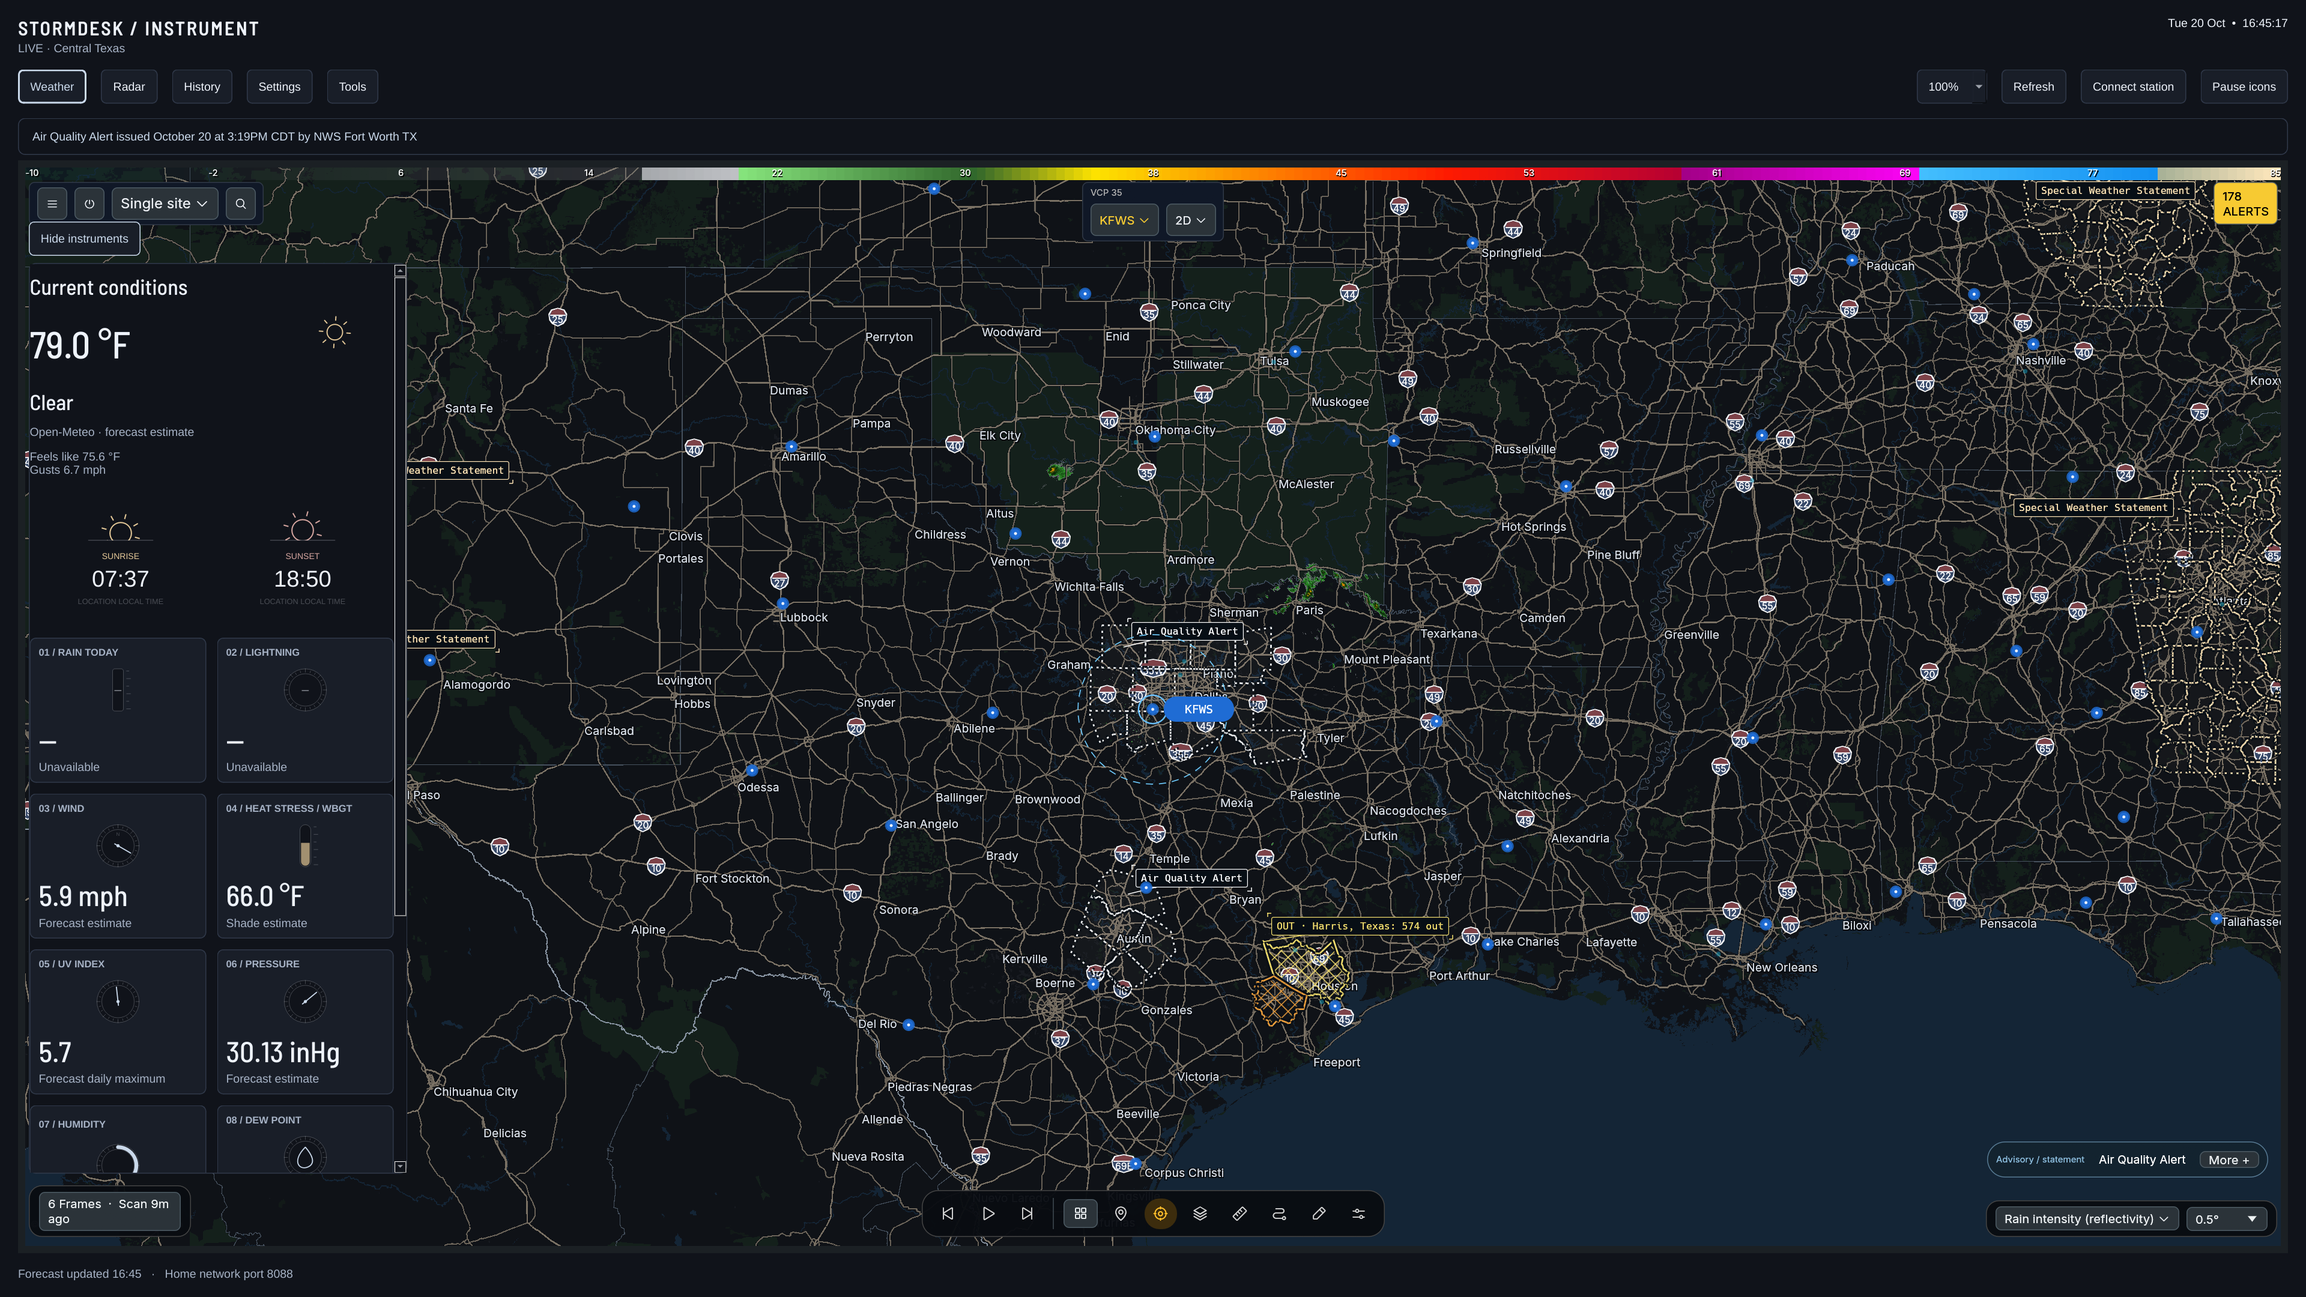
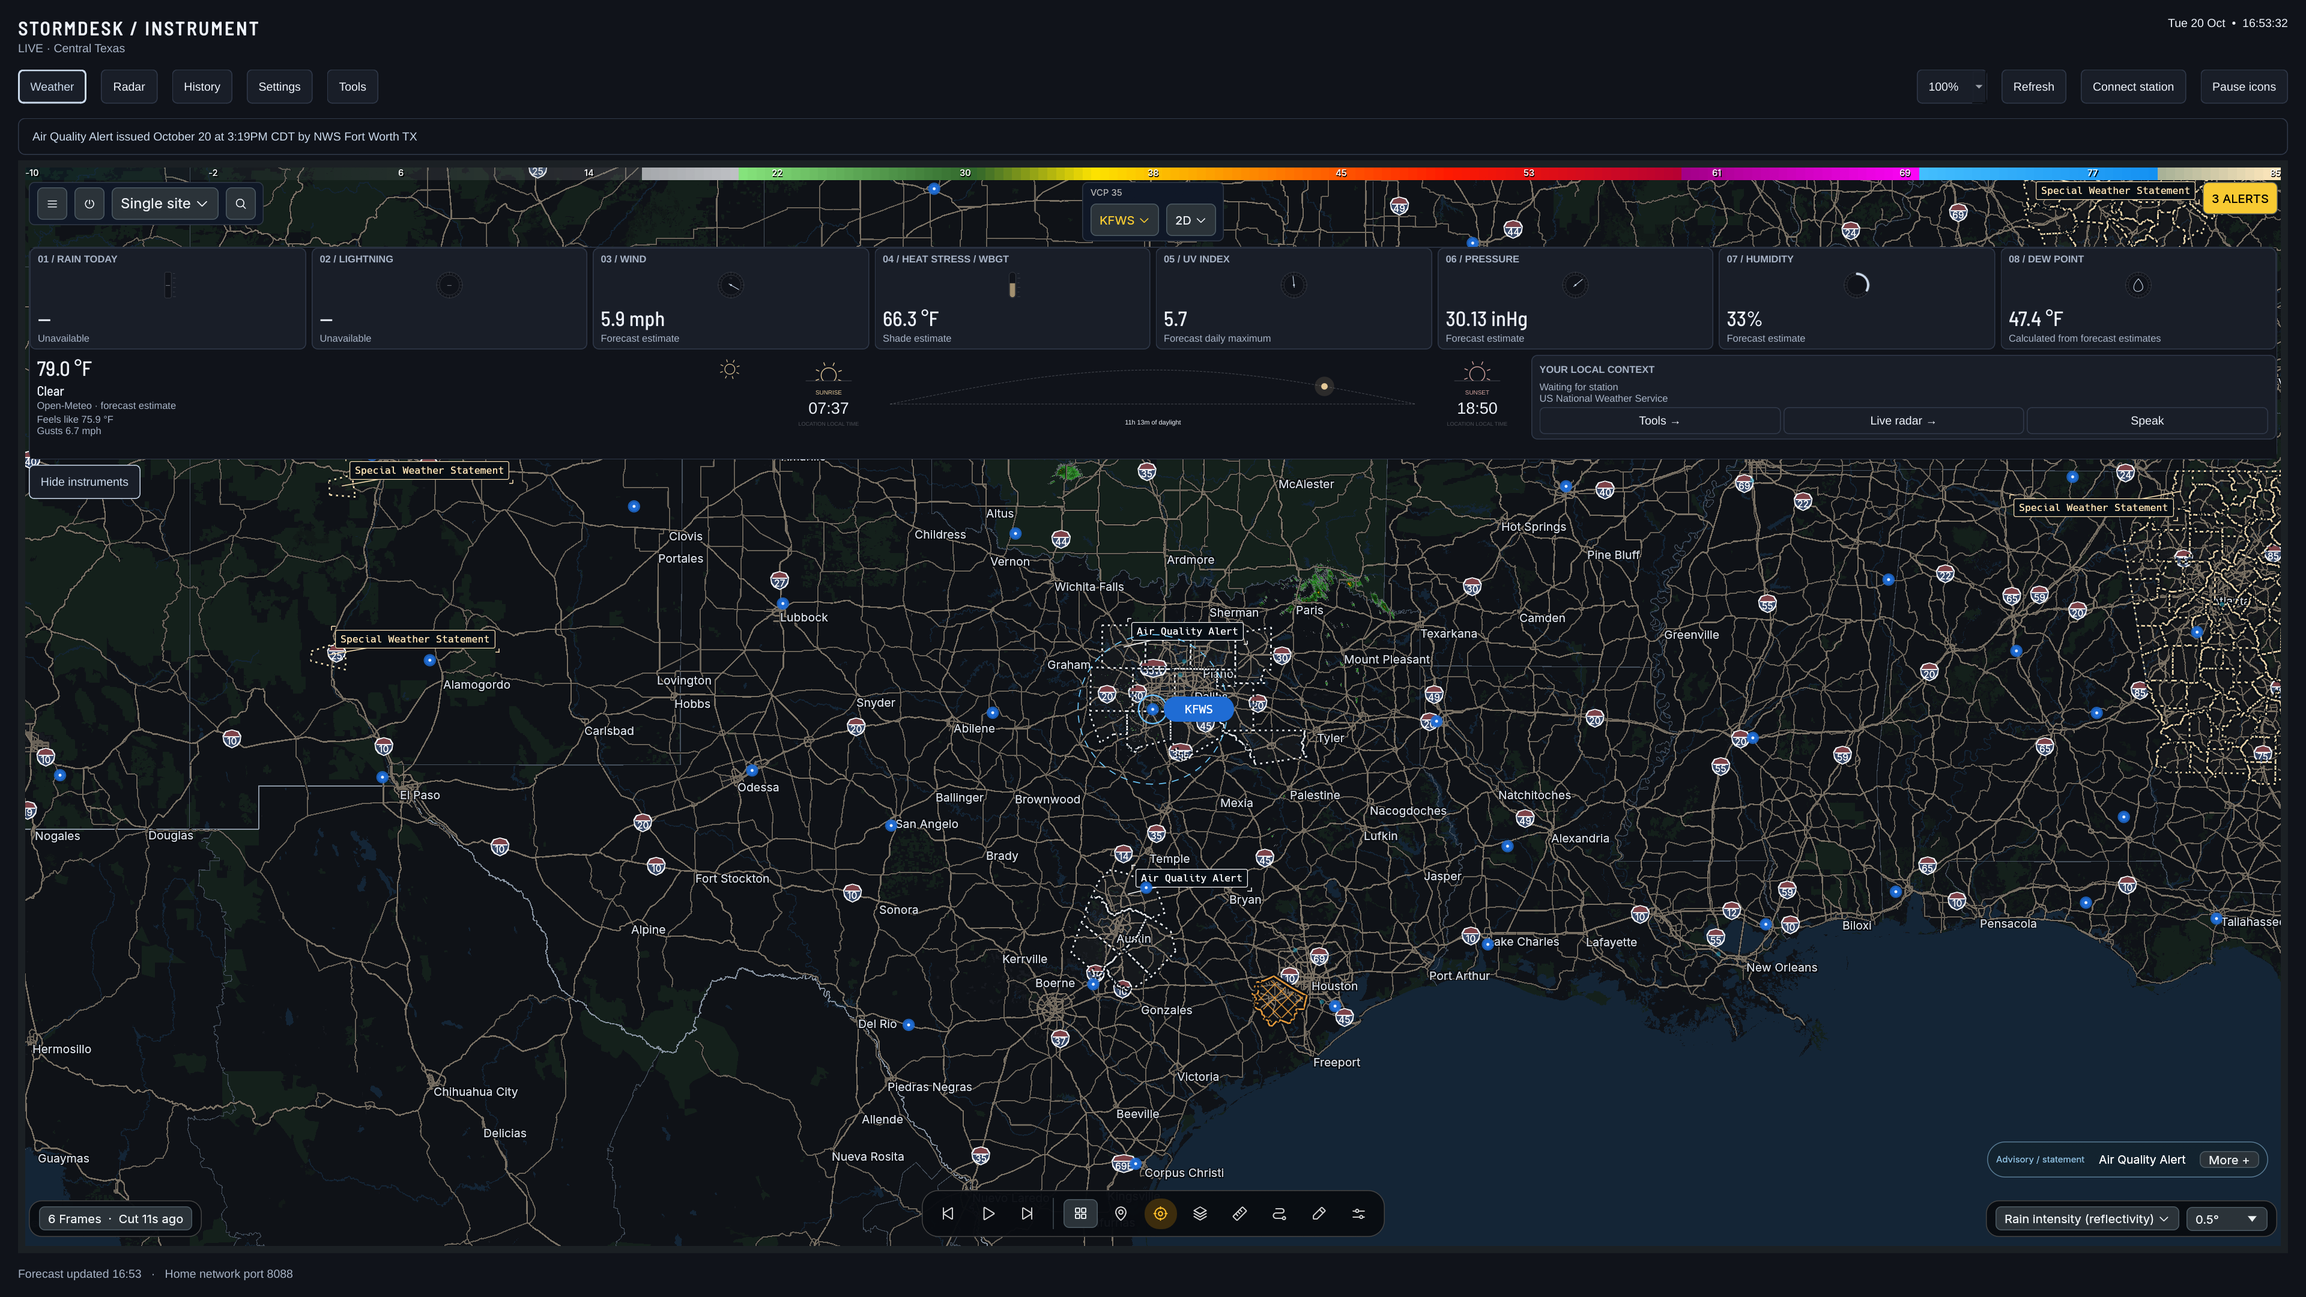
feat: compact native instruments across radar top

diff --git a/cpp/window.cpp b/cpp/window.cpp
@@ -324,7 +324,7 @@ QWidget *Window::makeWeather() {
   auto page = new QWidget;
   auto layout = new QVBoxLayout(page);
   layout->setContentsMargins(0, 0, 0, 0);
-  layout->setSpacing(16);
+  layout->setSpacing(6);
   alerts = label(
       "Choose a location in Settings to load weather and official warnings.",
       "notice");
@@ -340,7 +340,8 @@ QWidget *Window::makeWeather() {
     auto widget = card(
         QString::number(i + 1).rightJustified(2, '0') + " / " + names[i], &box);
     widget->setMinimumWidth(0);
-    box->setSpacing(4);
+    box->setSpacing(2);
+    box->setContentsMargins(8, 5, 8, 5);
     faces[i] = new InstrumentFace(i);
     faces[i]->setObjectName("instrumentFace" + QString::number(i));
     faces[i]->setAccessibleName(names[i] + " details");
@@ -419,15 +420,15 @@ QWidget *Window::makeWeather() {
   auto source = label({}, "muted");
   source->setObjectName("stationDetail");
   context->addWidget(source);
-  context->addStretch();
+  auto actions = new QHBoxLayout;
+  actions->setObjectName("contextActions");
+  context->addLayout(actions);
   auto link = new QPushButton("Tools →");
   connect(link, &QPushButton::clicked, this,
           [this] { pages->setCurrentIndex(4); });
-  context->addWidget(link);
-  auto hint = label("Weather readings are labeled by source. Missing sensor "
-                    "data remains unavailable.",
-                    "muted");
-  context->addWidget(hint);
+  actions->addWidget(link);
+  context->setContentsMargins(8, 5, 8, 5);
+  context->setSpacing(3);
   currentCard->setObjectName("instrumentHero");
   heroHeading = label("Current conditions", "subtitle");
   weatherGlyph = new WeatherGlyph;
@@ -446,15 +447,17 @@ QWidget *Window::makeWeather() {
   }
   currentLayout->removeWidget(radar);
   currentLayout->removeWidget(speak);
-  context->addWidget(radar);
-  context->addWidget(speak);
+  actions->addWidget(radar);
+  actions->addWidget(speak);
   heroLayout->setColumnStretch(0, 1);
   currentLayout->insertLayout(0, heroLayout);
-  currentLayout->setContentsMargins(0, 10, 0, 14);
-  layout->insertWidget(0, currentCard);
+  currentLayout->setContentsMargins(8, 0, 8, 0);
+  heroLayout->setSpacing(2);
   sunCycle = new SunCycle;
   sunCycle->setObjectName("sunCycle");
-  layout->insertWidget(1, sunCycle);
+  body->addWidget(currentCard, 0, 0);
+  body->addWidget(sunCycle, 0, 1);
+  body->addWidget(contextCard, 0, 2);
   auto liveRadar = new Radar(services, nullptr, true);
   liveRadar->setObjectName("dashboardRadar");
   dashboardRadarCard = liveRadar;
@@ -1202,9 +1205,9 @@ void Window::applyScale(double value) {
   font.setPixelSize(qRound(13 * scaleFactor));
   QApplication::setFont(font);
   for (auto face : faces)
-    face->setScale(scaleFactor * .72);
-  weatherGlyph->setScale(scaleFactor * .65);
-  sunCycle->setScale(scaleFactor * .85);
+    face->setScale(scaleFactor * .48);
+  weatherGlyph->setScale(scaleFactor * .42);
+  sunCycle->setScale(scaleFactor * .60);
   radarStage->setScale(scaleFactor);
   for (auto radar : findChildren<Radar *>())
     radar->setScale(scaleFactor);
@@ -1299,6 +1302,20 @@ void Window::applyTheme() {
       ";} QTabBar::tab:selected {color:" + accent +
       ";} QToolTip {color:" + foreground + ";background:" + panel +
       ";}"
+      "QScrollArea#instrumentShelf QLabel[kind=metric],"
+      "QScrollArea#instrumentShelf QLabel[kind=temperature] {font-size:" +
+      px(23) +
+      "px;}"
+      "QScrollArea#instrumentShelf QLabel[kind=subtitle] {font-size:" +
+      px(15) +
+      "px;}"
+      "QScrollArea#instrumentShelf QLabel[kind=muted],"
+      "QScrollArea#instrumentShelf QLabel[kind=eyebrow] {font-size:" +
+      px(11) +
+      "px;}"
+      "QScrollArea#instrumentShelf QPushButton {padding:" +
+      px(4) + "px " + px(8) +
+      "px;}"
       "QScrollArea#instrumentShelf {border:1px solid " +
       border +
       ";border-radius:8px;}"
@@ -1341,7 +1358,10 @@ void Window::arrange() {
     navigation->addWidget(setupButton, 0, 8);
     navigation->addWidget(motionButton, 0, 9);
   }
-  const int columns = available >= 360 ? 2 : 1;
+  const int columns = available >= 1200  ? 8
+                      : available >= 650 ? 4
+                      : available >= 360 ? 2
+                                         : 1;
   const auto dashboard =
       services.config.settings().value("nativeDashboard").toObject();
   const auto hidden = dashboard.value("hidden").toArray(),
@@ -1369,9 +1389,11 @@ void Window::arrange() {
       ++cell;
     }
   }
+  for (int col = 0; col < 8; ++col)
+    metrics->setColumnStretch(col, col < std::min(columns, cell) ? 1 : 0);
   double density = std::clamp(dashboard.value("density").toDouble(1), .6, 1.5);
-  metrics->setSpacing(qRound(12 * scaleFactor * density));
-  body->setSpacing(qRound(16 * scaleFactor * density));
+  metrics->setSpacing(qRound(6 * scaleFactor * density));
+  body->setSpacing(qRound(6 * scaleFactor * density));
   if (!currentCard || !contextCard || !dashboardRadarCard)
     return;
   auto detail = currentCard->findChild<QLabel *>("conditionsDetail");
@@ -1379,14 +1401,24 @@ void Window::arrange() {
        QList<QWidget *>{heroHeading, heroSource, detail, heroTemperature,
                         heroCondition, weatherGlyph})
     heroLayout->removeWidget(widget);
-  heroLayout->addWidget(heroHeading, 0, 0, 1, 2);
-  heroLayout->addWidget(heroTemperature, 1, 0);
-  heroLayout->addWidget(weatherGlyph, 1, 1);
-  heroLayout->addWidget(heroCondition, 2, 0, 1, 2);
-  heroLayout->addWidget(heroSource, 3, 0, 1, 2);
-  heroLayout->addWidget(detail, 4, 0, 1, 2);
-  body->addWidget(contextCard, 0, 0);
-  body->setColumnStretch(0, 1);
+  heroHeading->hide();
+  heroLayout->addWidget(heroTemperature, 0, 0);
+  heroLayout->addWidget(weatherGlyph, 0, 1, 2, 1);
+  heroLayout->addWidget(heroCondition, 1, 0);
+  heroLayout->addWidget(heroSource, 2, 0, 1, 2);
+  heroLayout->addWidget(detail, 3, 0, 1, 2);
+  for (auto widget :
+       {currentCard, static_cast<QWidget *>(sunCycle), contextCard})
+    body->removeWidget(widget);
+  contextCard->findChild<QHBoxLayout *>("contextActions")
+      ->setDirection(available < 650 ? QBoxLayout::TopToBottom
+                                     : QBoxLayout::LeftToRight);
+  const int contextColumns = available >= 1050 ? 3 : 1;
+  body->addWidget(currentCard, 0, 0);
+  body->addWidget(sunCycle, 1 / contextColumns, 1 % contextColumns);
+  body->addWidget(contextCard, 2 / contextColumns, 2 % contextColumns);
+  for (int col = 0; col < 3; ++col)
+    body->setColumnStretch(col, col < contextColumns ? 1 : 0);
   contextCard->setVisible(!hidden.contains("Your local context"));
   dashboardRadarCard->setVisible(!hidden.contains("Local radar"));
   currentCard->setVisible(!hidden.contains("Current conditions"));

diff --git a/cpp/radar.cpp b/cpp/radar.cpp
@@ -142,24 +142,24 @@ void RadarStage::resizeEvent(QResizeEvent *event) {
 void RadarStage::arrange() {
   radar->setGeometry(rect());
   const int margin = qRound(12 * scaleFactor);
-  const int panelWidth =
-      std::max(1, std::min(qRound(420 * scaleFactor), width() - 2 * margin));
+  const int panelWidth = std::max(1, width() - 2 * margin);
   if (!userToggled)
     toggle->setChecked(width() / scaleFactor >= 900);
   const int buttonHeight = toggle->sizeHint().height();
   const int top =
-      height() > 300 * scaleFactor ? qRound(68 * scaleFactor) : margin;
+      height() > 300 * scaleFactor ? qRound(96 * scaleFactor) : margin;
+  const int panelHeight =
+      std::max(0, std::min(qRound(236 * scaleFactor), height() / 3));
+  instruments->setGeometry(margin, top, panelWidth, panelHeight);
+  instruments->setVisible(toggle->isChecked() && panelHeight > 0);
   toggle->setText(toggle->isChecked() ? "Hide instruments"
                                       : "Show instruments");
-  toggle->setGeometry(margin, top,
+  const int buttonTop = instruments->isVisible()
+                            ? top + panelHeight + qRound(6 * scaleFactor)
+                            : top;
+  toggle->setGeometry(margin, buttonTop,
                       std::min(panelWidth, toggle->sizeHint().width()),
                       buttonHeight);
-  const int panelTop = top + buttonHeight + qRound(8 * scaleFactor);
-  const int bottom =
-      height() > 300 * scaleFactor ? qRound(88 * scaleFactor) : margin;
-  const int panelHeight = std::max(0, height() - panelTop - bottom);
-  instruments->setGeometry(margin, panelTop, panelWidth, panelHeight);
-  instruments->setVisible(toggle->isChecked() && panelHeight > 0);
   radar->lower();
   instruments->raise();
   toggle->raise();

diff --git a/cpp/ui_tests.cpp b/cpp/ui_tests.cpp
@@ -107,6 +107,8 @@ private slots:
     QVERIFY(stage && shelf && toggle);
     QCOMPARE(radar->geometry(), stage->rect());
     QVERIFY(shelf->isVisible());
+    QVERIFY(shelf->width() > stage->width() * .9);
+    QVERIFY(shelf->height() <= stage->height() / 3);
     QVERIFY(shelf->isAncestorOf(sunCycle));
     auto hit = stage->childAt(QPoint(stage->width() - 30, stage->height() / 2));
     QVERIFY(hit == radar || radar->isAncestorOf(hit));
@@ -125,6 +127,10 @@ private slots:
     QVERIFY(wind && wind->reading());
     QCOMPARE(*wind->reading(), 5.0);
     QVERIFY(dew && dew->reading());
+    QCOMPARE(rain->parentWidget()->mapTo(shelf, QPoint()).y(),
+             dew->parentWidget()->mapTo(shelf, QPoint()).y());
+    QVERIFY(rain->height() < 50);
+    QVERIFY(rain->mapTo(shelf, QPoint()).x() < dew->mapTo(shelf, QPoint()).x());
     auto glyph = window.findChild<WeatherGlyph *>();
     QVERIFY(glyph && glyph->animated());
     window.findChild<QPushButton *>("weatherMotion")->click();

diff --git a/docs/native-cpp.md b/docs/native-cpp.md
@@ -18,7 +18,7 @@ ctest --test-dir build --output-on-failure
 ./build/stormdesk
 ```
 
-Radar loads HookEcho's supported `https://app.hookecho.io/?embed` view in Qt WebEngine, centered on the selected location and optional radar site. Radar fills the Weather dashboard behind a collapsible native Qt instrument panel. Current conditions, animated sunrise/sunset icons and all eight gauges remain native widgets; only HookEcho uses WebEngine. Hide instruments clears the map, while official warning text stays above it. The panel scrolls independently, and clicks on the uncovered map go directly to HookEcho. The dashboard no longer has a ten-day outlook or six-hour temperature chart. HookEcho supplies map controls, playback, attribution, and scan times. Internet access is required; a load failure offers reload and a browser link. Builds without WebEngine (including Android) offer the browser link explicitly. `-DSTORMDESK_WEBENGINE=OFF` builds that fallback intentionally. Synthetic `--demo` mode never loads live radar.
+Radar loads HookEcho's supported `https://app.hookecho.io/?embed` view in Qt WebEngine, centered on the selected location and optional radar site. Radar fills the Weather dashboard behind a compact, collapsible native Qt instrument strip across the top. Current conditions, animated sunrise/sunset icons and all eight gauges remain native widgets; only HookEcho uses WebEngine. Hide instruments clears the map, while official warning text stays above it. The panel scrolls independently, and clicks on the uncovered map go directly to HookEcho. The dashboard no longer has a ten-day outlook or six-hour temperature chart. HookEcho supplies map controls, playback, attribution, and scan times. Internet access is required; a load failure offers reload and a browser link. Builds without WebEngine (including Android) offer the browser link explicitly. `-DSTORMDESK_WEBENGINE=OFF` builds that fallback intentionally. Synthetic `--demo` mode never loads live radar.
 
 On Windows and macOS, select a Qt desktop kit in Qt Creator, or use its `qt-cmake` wrapper with the same commands. Set `CMAKE_PREFIX_PATH` to the kit directory if CMake cannot find Qt. Deploy Qt libraries and the SQLite platform plugin using `windeployqt` / `macdeployqt`. The CMake configuration is shared across platforms; the desktop CI job collects Qt deployment folders for review; production installers are not produced by this branch yet.
 
@@ -49,7 +49,7 @@ Android builds and touch behavior need validation on real tablets before distrib
 
 ## UI size and small screens
 
-The Instrument dashboard draws eight measurement faces and weather icons in Qt. Click an instrument for its value, source and explanation. A native sunrise/sunset strip uses today's timestamps for the selected location; its central daylight marker follows the actual time while the two endpoint icons animate decoratively. Missing sun times stay unavailable. The sunrise/sunset strip sits above the gauges in the native overlay. On narrow displays the instrument panel starts collapsed and opens with Show instruments. The map always fills the available dashboard area without a separate vertical radar scroll. Forecast estimates remain labeled.
+The Instrument dashboard draws eight measurement faces and weather icons in Qt. Click an instrument for its value, source and explanation. A native sunrise/sunset strip uses today's timestamps for the selected location; its central daylight marker follows the actual time while the two endpoint icons animate decoratively. Missing sun times stay unavailable. Eight smaller gauges sit across the top on large displays, with compact current conditions, sunrise/sunset and local context directly below. The strip occupies at most one third of the radar area and scrolls independently when its contents need more room. Gauges reflow to four, two or one column on smaller displays. On narrow displays the instrument strip starts collapsed and opens with Show instruments. The map always fills the available dashboard area without a separate vertical radar scroll. Forecast estimates remain labeled.
 
 First launch offers **Connect my station**, **Find my weather**, and **Restore a backup**. **Connect station** in the toolbar reopens setup. Choose a location, then follow the source-specific connection steps. Tempest offers local UDP (with a serial filter) or WeatherFlow cloud; choosing cloud excludes local UDP packets. **Save & test** writes the connection settings and checks the actual feed. Missing or stale readings cannot produce a successful check. **Finish while waiting** lets you continue without claiming the connection is healthy. Setup resumes after restart if it was saved but left unfinished. The final step saves units, icon motion, warning preferences and interface size. Closing setup after saving a connection keeps those settings.
 

diff --git a/README.md b/README.md
@@ -6,7 +6,7 @@ A C++17 / Qt 6 weather application for desktop computers, Raspberry Pi, and Andr
 
 Choose a location for forecasts, or connect a personal weather station for measurements. StormDesk supports WeatherFlow Tempest, Ecowitt, Ambient Weather, Davis WeatherLink Live, La Crosse, and compatible Weather Underground upload protocols. Missing readings stay unavailable; forecast estimates are labeled.
 
-The native **Instrument** interface has eight measurement faces, animated weather icons, an animated sunrise/sunset strip with location-local times, and live HookEcho radar filling the dashboard behind a collapsible native instrument panel. First-run onboarding guides location selection, station connection, real feed verification, and display preferences. Saved **70–200% scaling**, automatic display DPI, touch scrolling, themes, and dashboard customization support different screens. The same CMake project builds a native GUI or a small headless collector/server.
+The native **Instrument** interface has eight measurement faces, animated weather icons, an animated sunrise/sunset strip with location-local times, and live HookEcho radar filling the dashboard behind a compact, collapsible native strip across the top. The smaller gauges sit in one row on large screens, keeping the radar as the main view. First-run onboarding guides location selection, station connection, real feed verification, and display preferences. Saved **70–200% scaling**, automatic display DPI, touch scrolling, themes, and dashboard customization support different screens. The same CMake project builds a native GUI or a small headless collector/server.
 
 ![Native Qt Instrument dashboard using live provider data; no personal station connected](docs/native-instrument.png)
 
